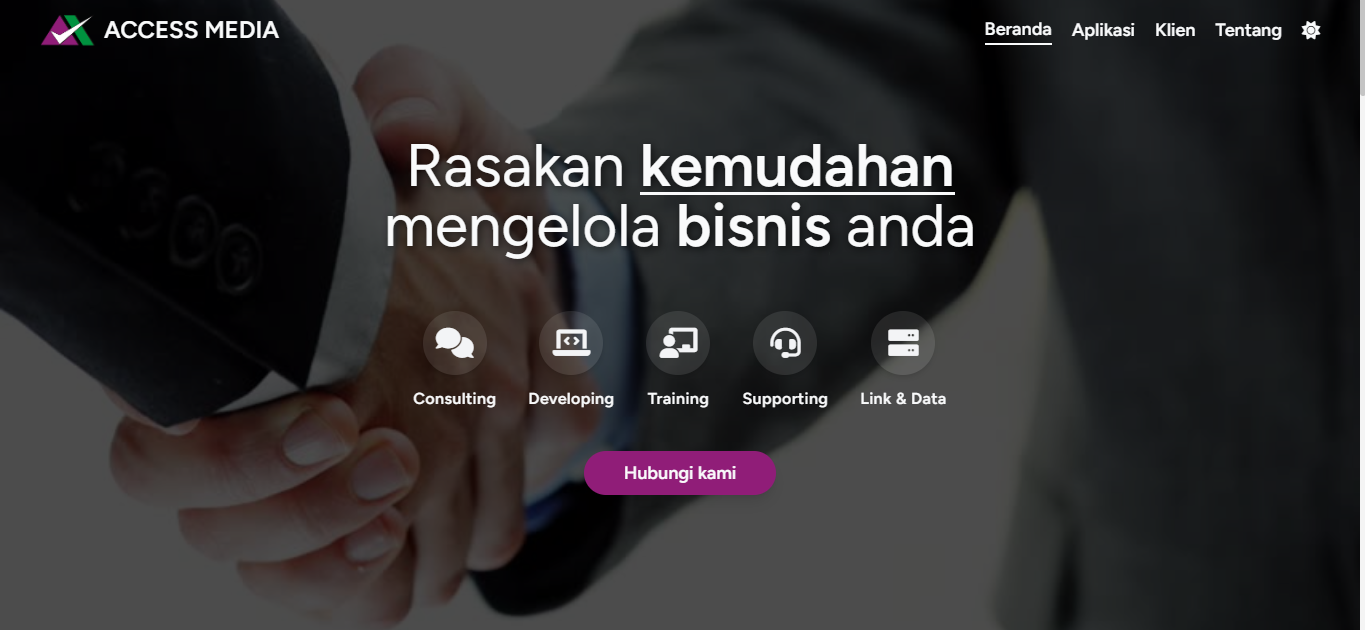
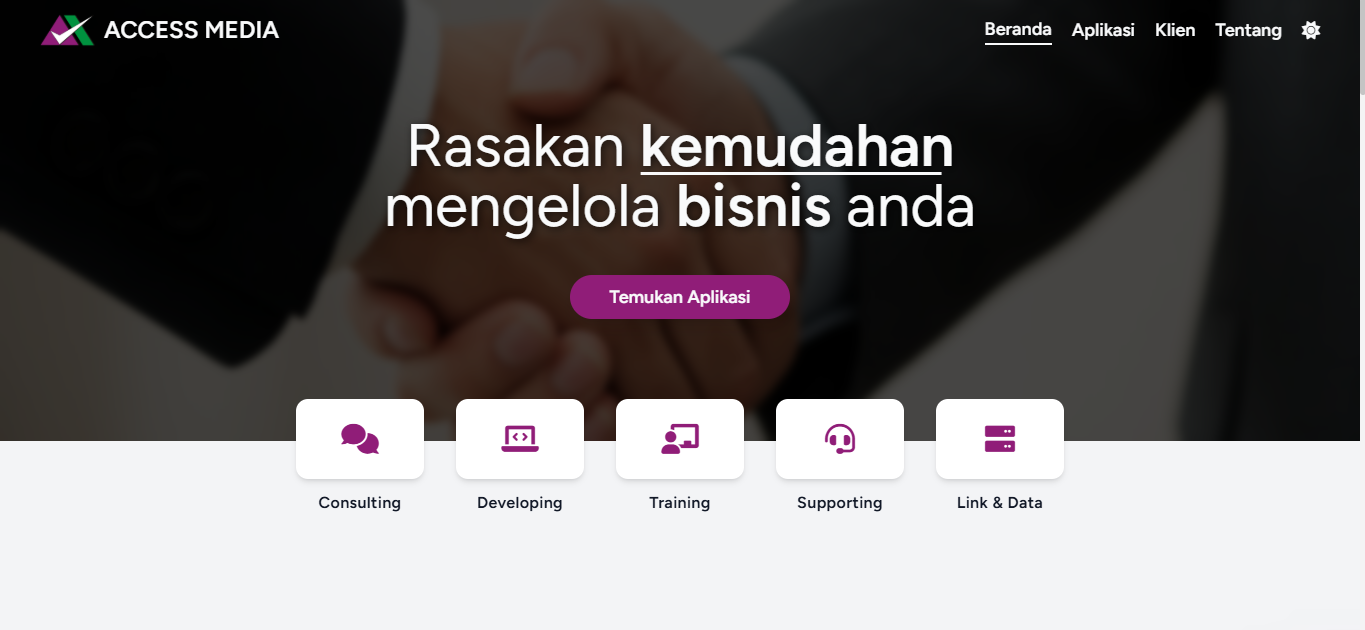
update: portfolio thumbnail

diff --git a/src/output.css b/src/output.css
@@ -280,9 +280,6 @@
   .grid {
     display: grid;
   }
-  .table {
-    display: table;
-  }
   .h-10 {
     height: calc(var(--spacing) * 10);
   }
@@ -340,19 +337,12 @@
   .w-xs {
     width: var(--container-xs);
   }
-  .border-collapse {
-    border-collapse: collapse;
-  }
   .translate-x-0 {
     --tw-translate-x: calc(var(--spacing) * 0);
     translate: var(--tw-translate-x) var(--tw-translate-y);
   }
   .translate-x-full {
     --tw-translate-x: 100%;
-    translate: var(--tw-translate-x) var(--tw-translate-y);
-  }
-  .-translate-y-1 {
-    --tw-translate-y: calc(var(--spacing) * -1);
     translate: var(--tw-translate-x) var(--tw-translate-y);
   }
   .-translate-y-1\/2 {
@@ -364,9 +354,6 @@
   }
   .cursor-pointer {
     cursor: pointer;
-  }
-  .resize {
-    resize: both;
   }
   .list-outside {
     list-style-position: outside;
@@ -453,20 +440,11 @@
     border-top-style: var(--tw-border-style);
     border-top-width: 1px;
   }
-  .border-dark {
-    border-color: #393e46;
-  }
   .border-dark\/20 {
     border-color: color-mix(in oklab, #393e46 20%, transparent);
   }
-  .border-hvPrimary {
-    border-color: #eeeeee;
-  }
   .border-hvPrimary\/50 {
     border-color: color-mix(in oklab, #eeeeee 50%, transparent);
-  }
-  .border-primary {
-    border-color: #f7f7f7;
   }
   .border-primary\/70 {
     border-color: color-mix(in oklab, #f7f7f7 70%, transparent);
@@ -498,9 +476,6 @@
   .bg-primary\/50 {
     background-color: color-mix(in oklab, #f7f7f7 50%, transparent);
   }
-  .bg-secondary {
-    background-color: #929aab;
-  }
   .bg-secondary\/50 {
     background-color: color-mix(in oklab, #929aab 50%, transparent);
   }
@@ -511,21 +486,12 @@
     }
     background-image: linear-gradient(var(--tw-gradient-stops));
   }
-  .from-black {
-    --tw-gradient-from: var(--color-black);
-    --tw-gradient-stops: var(--tw-gradient-via-stops, var(--tw-gradient-position), var(--tw-gradient-from) var(--tw-gradient-from-position), var(--tw-gradient-to) var(--tw-gradient-to-position));
-  }
   .from-black\/80 {
     --tw-gradient-from: color-mix(in srgb, #000 80%, transparent);
     @supports (color: color-mix(in lab, red, red)) {
       --tw-gradient-from: color-mix(in oklab, var(--color-black) 80%, transparent);
     }
     --tw-gradient-stops: var(--tw-gradient-via-stops, var(--tw-gradient-position), var(--tw-gradient-from) var(--tw-gradient-from-position), var(--tw-gradient-to) var(--tw-gradient-to-position));
-  }
-  .via-black {
-    --tw-gradient-via: var(--color-black);
-    --tw-gradient-via-stops: var(--tw-gradient-position), var(--tw-gradient-from) var(--tw-gradient-from-position), var(--tw-gradient-via) var(--tw-gradient-via-position), var(--tw-gradient-to) var(--tw-gradient-to-position);
-    --tw-gradient-stops: var(--tw-gradient-via-stops);
   }
   .via-black\/20 {
     --tw-gradient-via: color-mix(in srgb, #000 20%, transparent);
@@ -644,14 +610,6 @@
   .text-white {
     color: var(--color-white);
   }
-  .underline {
-    text-decoration-line: underline;
-  }
-  .placeholder-dark {
-    &::placeholder {
-      color: #393e46;
-    }
-  }
   .placeholder-dark\/50 {
     &::placeholder {
       color: color-mix(in oklab, #393e46 50%, transparent);
@@ -665,10 +623,6 @@
   }
   .opacity-100 {
     opacity: 100%;
-  }
-  .shadow {
-    --tw-shadow: 0 1px 3px 0 var(--tw-shadow-color, rgb(0 0 0 / 0.1)), 0 1px 2px -1px var(--tw-shadow-color, rgb(0 0 0 / 0.1));
-    box-shadow: var(--tw-inset-shadow), var(--tw-inset-ring-shadow), var(--tw-ring-offset-shadow), var(--tw-ring-shadow), var(--tw-shadow);
   }
   .shadow-2xl {
     --tw-shadow: 0 25px 50px -12px var(--tw-shadow-color, rgb(0 0 0 / 0.25));
@@ -686,18 +640,6 @@
     --tw-shadow: 0 20px 25px -5px var(--tw-shadow-color, rgb(0 0 0 / 0.1)), 0 8px 10px -6px var(--tw-shadow-color, rgb(0 0 0 / 0.1));
     box-shadow: var(--tw-inset-shadow), var(--tw-inset-ring-shadow), var(--tw-ring-offset-shadow), var(--tw-ring-shadow), var(--tw-shadow);
   }
-  .shadow-\[\#222831\]\/20 {
-    --tw-shadow-color: color-mix(in srgb, #222831 20%, transparent);
-    @supports (color: color-mix(in lab, red, red)) {
-      --tw-shadow-color: color-mix(in oklab, color-mix(in oklab, #222831 20%, transparent) var(--tw-shadow-alpha), transparent);
-    }
-  }
-  .shadow-dark {
-    --tw-shadow-color: #393e46;
-    @supports (color: color-mix(in lab, red, red)) {
-      --tw-shadow-color: color-mix(in oklab, #393e46 var(--tw-shadow-alpha), transparent);
-    }
-  }
   .shadow-dark\/20 {
     --tw-shadow-color: color-mix(in srgb, #393e46 20%, transparent);
     @supports (color: color-mix(in lab, red, red)) {
@@ -710,21 +652,11 @@
       --tw-shadow-color: color-mix(in oklab, color-mix(in oklab, #393e46 50%, transparent) var(--tw-shadow-alpha), transparent);
     }
   }
-  .shadow-secondary {
-    --tw-shadow-color: #929aab;
-    @supports (color: color-mix(in lab, red, red)) {
-      --tw-shadow-color: color-mix(in oklab, #929aab var(--tw-shadow-alpha), transparent);
-    }
-  }
   .shadow-secondary\/20 {
     --tw-shadow-color: color-mix(in srgb, #929aab 20%, transparent);
     @supports (color: color-mix(in lab, red, red)) {
       --tw-shadow-color: color-mix(in oklab, color-mix(in oklab, #929aab 20%, transparent) var(--tw-shadow-alpha), transparent);
     }
-  }
-  .outline {
-    outline-style: var(--tw-outline-style);
-    outline-width: 1px;
   }
   .filter {
     filter: var(--tw-blur,) var(--tw-brightness,) var(--tw-contrast,) var(--tw-grayscale,) var(--tw-hue-rotate,) var(--tw-invert,) var(--tw-saturate,) var(--tw-sepia,) var(--tw-drop-shadow,);
@@ -736,10 +668,6 @@
   }
   .backdrop-blur-sm {
     --tw-backdrop-blur: blur(var(--blur-sm));
-    -webkit-backdrop-filter: var(--tw-backdrop-blur,) var(--tw-backdrop-brightness,) var(--tw-backdrop-contrast,) var(--tw-backdrop-grayscale,) var(--tw-backdrop-hue-rotate,) var(--tw-backdrop-invert,) var(--tw-backdrop-opacity,) var(--tw-backdrop-saturate,) var(--tw-backdrop-sepia,);
-    backdrop-filter: var(--tw-backdrop-blur,) var(--tw-backdrop-brightness,) var(--tw-backdrop-contrast,) var(--tw-backdrop-grayscale,) var(--tw-backdrop-hue-rotate,) var(--tw-backdrop-invert,) var(--tw-backdrop-opacity,) var(--tw-backdrop-saturate,) var(--tw-backdrop-sepia,);
-  }
-  .backdrop-filter {
     -webkit-backdrop-filter: var(--tw-backdrop-blur,) var(--tw-backdrop-brightness,) var(--tw-backdrop-contrast,) var(--tw-backdrop-grayscale,) var(--tw-backdrop-hue-rotate,) var(--tw-backdrop-invert,) var(--tw-backdrop-opacity,) var(--tw-backdrop-saturate,) var(--tw-backdrop-sepia,);
     backdrop-filter: var(--tw-backdrop-blur,) var(--tw-backdrop-brightness,) var(--tw-backdrop-contrast,) var(--tw-backdrop-grayscale,) var(--tw-backdrop-hue-rotate,) var(--tw-backdrop-invert,) var(--tw-backdrop-opacity,) var(--tw-backdrop-saturate,) var(--tw-backdrop-sepia,);
   }
@@ -826,13 +754,6 @@
         --tw-scale-y: 110%;
         --tw-scale-z: 110%;
         scale: var(--tw-scale-x) var(--tw-scale-y);
-      }
-    }
-  }
-  .hover\:bg-dark {
-    &:hover {
-      @media (hover: hover) {
-        background-color: #393e46;
       }
     }
   }
@@ -1007,11 +928,6 @@
       background-color: #222831;
     }
   }
-  .dark\:bg-black {
-    &:where(.dark, .dark *) {
-      background-color: var(--color-black);
-    }
-  }
   .dark\:bg-dark {
     &:where(.dark, .dark *) {
       background-color: #393e46;
@@ -1030,11 +946,6 @@
   .dark\:bg-secondary\/50 {
     &:where(.dark, .dark *) {
       background-color: color-mix(in oklab, #929aab 50%, transparent);
-    }
-  }
-  .dark\:bg-slate-800 {
-    &:where(.dark, .dark *) {
-      background-color: var(--color-slate-800);
     }
   }
   .dark\:bg-slate-800\/50 {
@@ -1060,46 +971,10 @@
       color: #f7f7f7;
     }
   }
-  .dark\:placeholder-dark\/50 {
-    &:where(.dark, .dark *) {
-      &::placeholder {
-        color: color-mix(in oklab, #393e46 50%, transparent);
-      }
-    }
-  }
   .dark\:placeholder-primary\/50 {
     &:where(.dark, .dark *) {
       &::placeholder {
         color: color-mix(in oklab, #f7f7f7 50%, transparent);
-      }
-    }
-  }
-  .dark\:shadow\/20 {
-    &:where(.dark, .dark *) {
-      --tw-shadow-alpha: 20%;
-      --tw-shadow: 0 1px 3px 0 var(--tw-shadow-color, oklab(from rgb(0 0 0 / 0.1) l a b / 20%)), 0 1px 2px -1px var(--tw-shadow-color, oklab(from rgb(0 0 0 / 0.1) l a b / 20%));
-      box-shadow: var(--tw-inset-shadow), var(--tw-inset-ring-shadow), var(--tw-ring-offset-shadow), var(--tw-ring-shadow), var(--tw-shadow);
-    }
-  }
-  .dark\:shadow {
-    &:where(.dark, .dark *) {
-      --tw-shadow: 0 1px 3px 0 var(--tw-shadow-color, rgb(0 0 0 / 0.1)), 0 1px 2px -1px var(--tw-shadow-color, rgb(0 0 0 / 0.1));
-      box-shadow: var(--tw-inset-shadow), var(--tw-inset-ring-shadow), var(--tw-ring-offset-shadow), var(--tw-ring-shadow), var(--tw-shadow);
-    }
-  }
-  .dark\:shadow-\[\#222831\]\/20 {
-    &:where(.dark, .dark *) {
-      --tw-shadow-color: color-mix(in srgb, #222831 20%, transparent);
-      @supports (color: color-mix(in lab, red, red)) {
-        --tw-shadow-color: color-mix(in oklab, color-mix(in oklab, #222831 20%, transparent) var(--tw-shadow-alpha), transparent);
-      }
-    }
-  }
-  .dark\:shadow-black {
-    &:where(.dark, .dark *) {
-      --tw-shadow-color: #000;
-      @supports (color: color-mix(in lab, red, red)) {
-        --tw-shadow-color: color-mix(in oklab, var(--color-black) var(--tw-shadow-alpha), transparent);
       }
     }
   }
@@ -1108,14 +983,6 @@
       --tw-shadow-color: color-mix(in srgb, #000 20%, transparent);
       @supports (color: color-mix(in lab, red, red)) {
         --tw-shadow-color: color-mix(in oklab, color-mix(in oklab, var(--color-black) 20%, transparent) var(--tw-shadow-alpha), transparent);
-      }
-    }
-  }
-  .dark\:shadow-dark\/20 {
-    &:where(.dark, .dark *) {
-      --tw-shadow-color: color-mix(in srgb, #393e46 20%, transparent);
-      @supports (color: color-mix(in lab, red, red)) {
-        --tw-shadow-color: color-mix(in oklab, color-mix(in oklab, #393e46 20%, transparent) var(--tw-shadow-alpha), transparent);
       }
     }
   }
@@ -1308,11 +1175,6 @@
   inherits: false;
   initial-value: 0 0 #0000;
 }
-@property --tw-outline-style {
-  syntax: "*";
-  inherits: false;
-  initial-value: solid;
-}
 @property --tw-blur {
   syntax: "*";
   inherits: false;
@@ -1462,7 +1324,6 @@
       --tw-ring-offset-width: 0px;
       --tw-ring-offset-color: #fff;
       --tw-ring-offset-shadow: 0 0 #0000;
-      --tw-outline-style: solid;
       --tw-blur: initial;
       --tw-brightness: initial;
       --tw-contrast: initial;